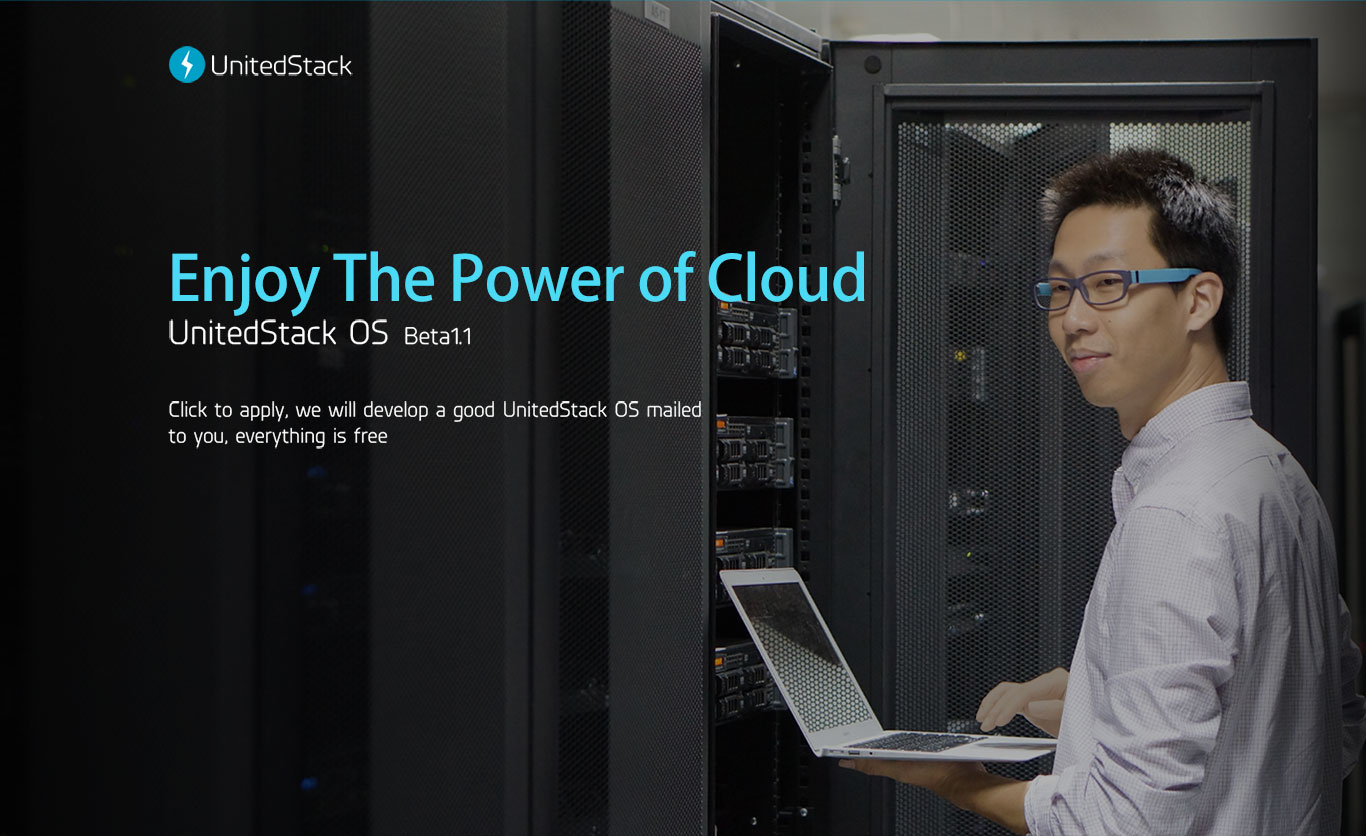
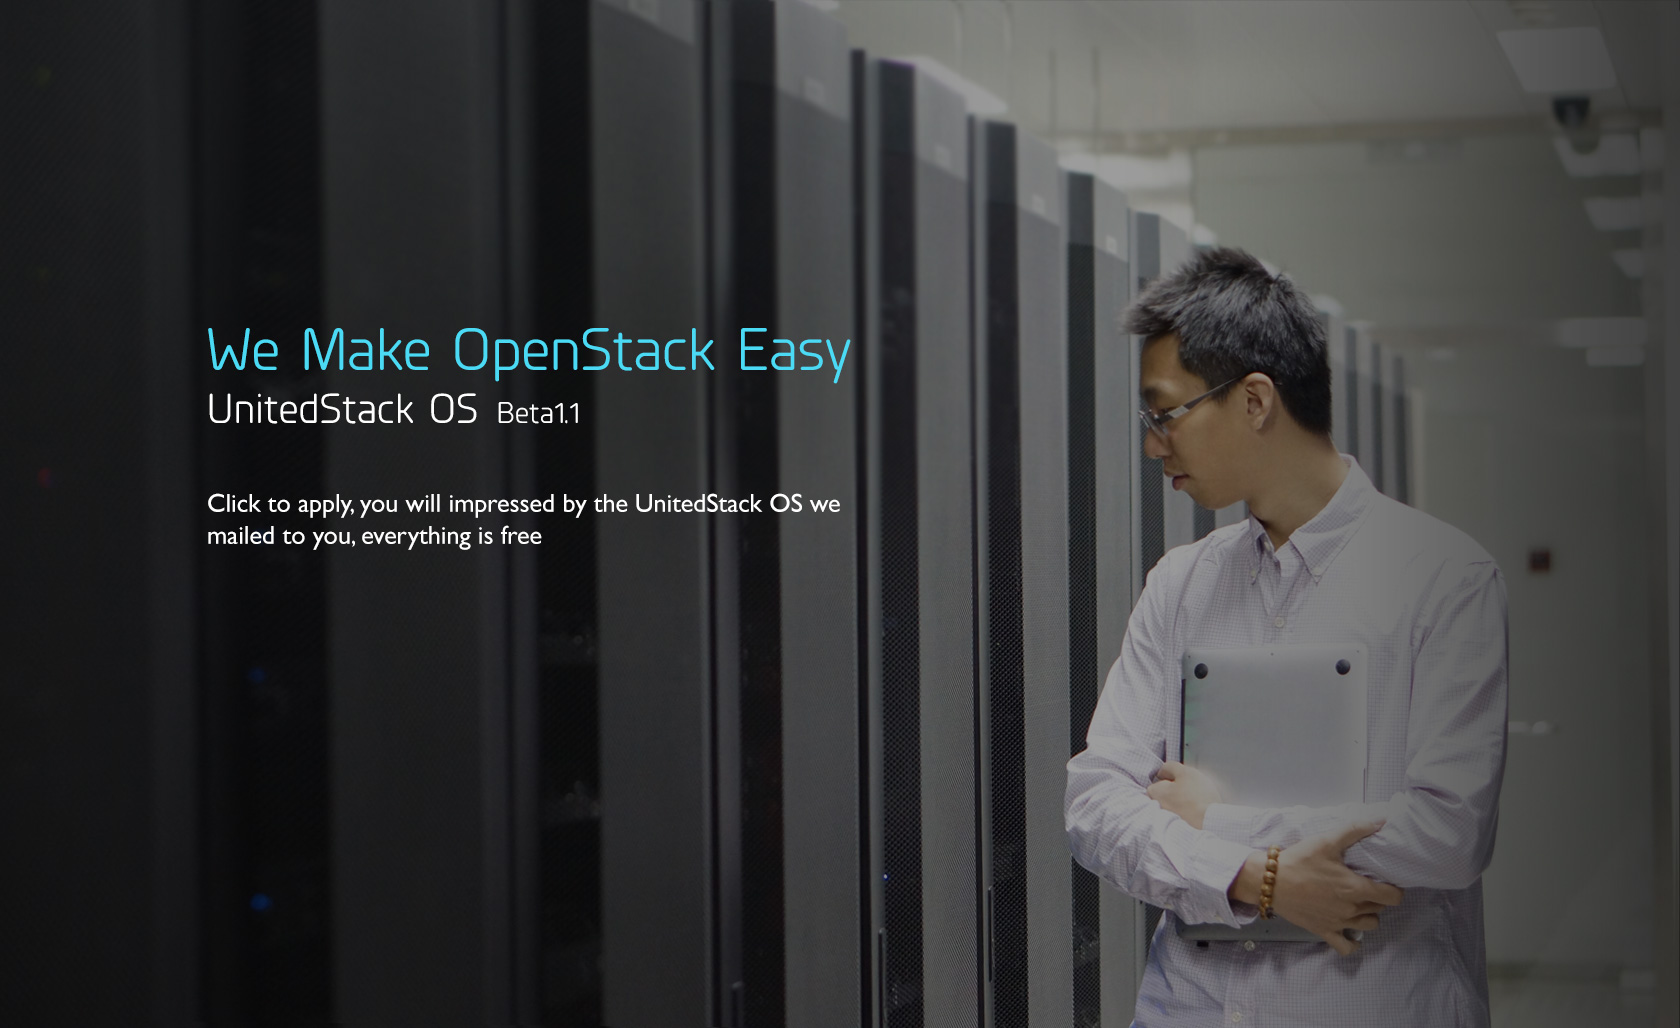
change home page style

diff --git a/lab/BaseUI/Product&homePage/index.html b/lab/BaseUI/Product&homePage/index.html
@@ -25,6 +25,9 @@ html,body,div,p,h1,h2,h3,h4,ul,li,ol {
   font-family: 'Segoe UI Light','Segoe UI','Microsoft Jhenghei','微软雅黑',sans-serif;
   text-align: center;
 }
+html,body {
+  overflow: hidden;
+}
 .clearfix:before,
 .clearfix:after {
   display: table;
@@ -62,7 +65,7 @@ a {
   _height: 577px;
   *height: 577px;
   min-height: 600px;
-  border-top: 5px solid #00a2c8; 
+  border-top: 4px solid #00a2c8; 
   background: url(./images/1366.jpg) no-repeat 0 0;
   background-size: cover;
   *zoom: 1;
@@ -83,6 +86,7 @@ a {
 .menu li a {
   /*font-weight: bold;*/
   font-size: 18px;
+  color: #f0f0f0;
   padding: 3px 10px;
 }
 .menu li a:hover {
@@ -200,10 +204,10 @@ a {
   position: fixed;
   z-index: 9999;
   height: 55px;
-  top: 0;
+  top: 4px;
   width: 100%;
-  background: #fff;
-  border-bottom: 1px solid #eee;
+  background: rgba(256,256,256,.4);
+/*  border-bottom: 1px solid #eee;*/
   -webkit-box-shadow: rgba(0,0,0,.1) 0 1px 5px;
   -moz-box-shadow: rgba(0,0,0,.1) 0 1px 5px;
   box-shadow: rgba(0,0,0,.1) 0 1px 5px;
@@ -291,25 +295,56 @@ a {
     width:400px;
   }
 }
+#down-button-group {
+  height: 64px;
+  position: absolute;
+  bottom: 60px;
+  left: 160px;
+}
+#down-button-group a {
+  display: inline-block;
+  height: 64px;
+  line-height: 64px;
+  color: #fff;
+  background: #00b4d2;
+  padding: 0 55px;
+  font-size: 22px;
+  font-family: "微软雅黑";
+  /*font-weight: bold;*/
+}
+#down-button-group .try {
+  margin-left: 35px;
+  background: #0a5467;
+}
+.active a {
+  color: #00a1c7!important;
+}
+.active a:hover {
+  color: #fff!important;
+}
 </style>
 </head>
 <body id="home">
-  <div class="firstScreen">
-    <div id="up-arrow"></div>
-  </div>
+<div class="nav topFixedNav">
+  <ul class="menu clearfix">
+    <li><a href="">加入我们</a></li>
+    <li><a href="">公司</a></li>
+    <li><a href="">博客</a></li>
+    <li><a href="">OpenStack</a></li>
+    <li><a href="">服务</a></li>
+    <li><a href="product.html">产品</a></li>
+    <li class="active"><a href="">首页</a></li>  
+  </ul>
+</div>
 
-  <div class="nav">
-    <ul class="menu clearfix">
-      <li><a href="">加入我们</a></li>
-      <li><a href="">公司</a></li>
-      <li><a href="">博客</a></li>
-      <li><a href="">OpenStack</a></li>
-      <li><a href="">服务</a></li>
-      <li><a href="product.html">产品</a></li>
-      <li><a href="">首页</a></li>  
-    </ul>
-  </div>
-  <div class="part-one bg-blue">
+<div class="firstScreen">
+</div>
+
+<div id="down-button-group">
+  <a class="free" href="">Free Application</a>
+  <a class="try"href="">Try UOS Free</a>
+</div>
+<!--   <div class="part-one bg-blue">
     <div class="center-content">
       <h2 class="font-white">One-click installation</h2>
       <p class="font-white">
@@ -317,9 +352,9 @@ a {
       </p>
       <img class="mac" src="./images/mac.png"/>
     </div>
-  </div>
+  </div> -->
 
-  <div class="part-two">
+ <!--  <div class="part-two">
     <div class="center-content">
       <h2>One-click installation</h2>
       <p>
@@ -328,7 +363,7 @@ a {
       <img class="mac-screen" src="./images/screen.png"/>
       <div class="btn-navy mt80">Try UOS Free</div>
     </div>
-  </div>
+  </div> -->
 
 <!--   <div class="part-three">
     <div class="center-content">
@@ -340,7 +375,7 @@ a {
     </div>
   </div> -->
 
-  <div class="footer">
+<!--   <div class="footer">
     <div class="footer-content clearfix">
       <ul class="footer-nav">
         <li><a href="">首页</a></li>
@@ -353,62 +388,16 @@ a {
       </ul>
     </div>
     <p class="footer-copy">© 2013 UnitedStack Inc.</p>
-  </div>
+  </div> -->
 <div id="showMenu">Menu</div>
 <script src="./js/jquery.js"></script>
-<script src="./js/jquery.easing.1.3.js"></script>
+<!-- <script src="./js/jquery.easing.1.3.js"></script> -->
 <!-- <script src="http://browser.qq.com/js/jquery.mousewheel.min.js"></script> -->
 
 
 <script type="text/javascript">
 var winHeight = $(window).height();
 $(".firstScreen").css({"height": winHeight});
-
-var UnitedStack = {
-  firstScreenHeightInit: function (){
-    // var winHeight = $(window).height();
-    // $(".firstScreen").css({"height": winHeight});  easeInOutExpo
-    $("#up-arrow").on("click", function(){
-      $("html,body").animate({ scrollTop: $('html,body').offset().top + winHeight + 5 },700,'easeInQuad');
-    });
-
-    $(window).on("scroll", function(){
-      var scrHeight = $(window).scrollTop();
-      var $mac = $(".mac");
-      var $macScreen = $(".mac-screen")
-      var $nav = $(".nav");
-      var $body = $("body");
-      if( scrHeight >= (winHeight + 5)){
-        $nav.addClass("topFixedNav");
-        $body.css("padding-top","55px");
-        $mac.fadeIn(900);
-      } else {
-        $nav.removeClass("topFixedNav");
-        $body.css("padding-top","0px");
-        $mac.fadeOut(900);
-      }
-
-      if(scrHeight >= (winHeight + 550)) {
-        $macScreen.fadeIn(900);
-      } else {
-        $macScreen.fadeOut(900);
-      }
-    });
-  },
-  responseMenu: function () {
-    $("div#showMenu").on("click", function(){
-      $(".menu").toggle(400);
-    });
-  },
-  init: function () {
-    this.firstScreenHeightInit();
-    this.responseMenu();
-  }
-};
-
-$(function(){
-  UnitedStack.init();
-});
 </script>
 </body>
 </html>
